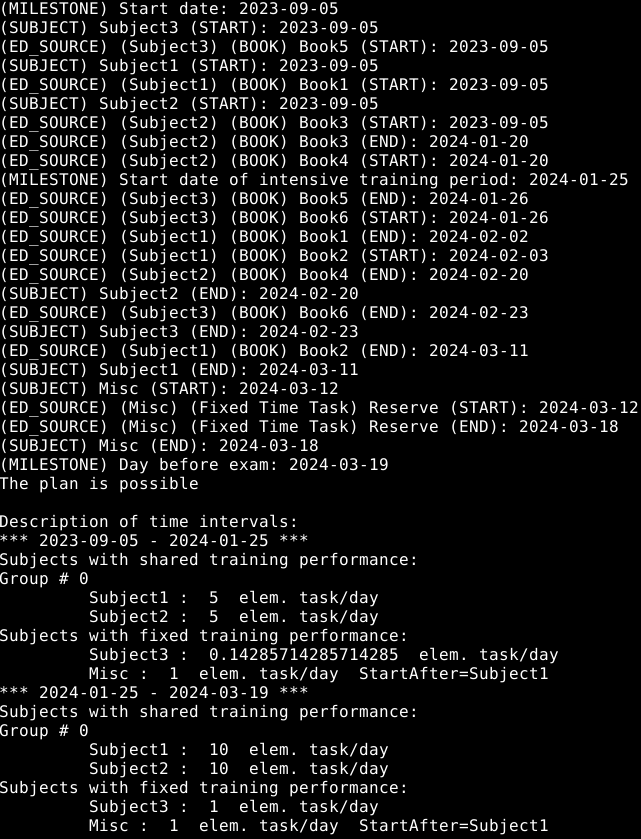
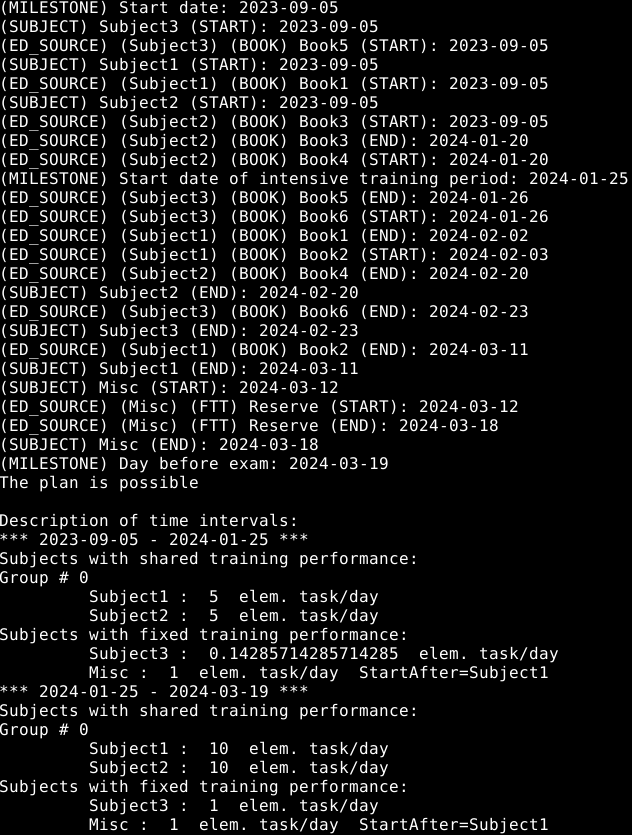
Fixed #8; fixed #11

Changed region(s): [[0.0, 0.0, 0.9921, 1.0], [0.8117, 0.4671, 0.9921, 0.5293]]

diff --git a/ImitPlanner.py b/ImitPlanner.py
@@ -175,7 +175,7 @@ class FixedTimeTask(AbstractEdSource):
 			raise Exception("Error! This ed. source has already been"
 				+ " completed!")
 	def getSourceName(self):
-		return "Fixed Time Task"
+		return "FTT" #issue #11
 	def getDescr(self):
 		return "("+self.getSourceName()+") " + self.getTitle()
 
@@ -267,7 +267,7 @@ class Subject(IDescriptable, IEventSource, IEventListener):
 	
 	def solveEx(self, nExSolved, verbose=False):
 
-		if self.__fLocked==False:
+		if self.__fLocked==False and nExSolved>0: #issue #8
 			self.__checkFirstUse(verbose) # issue #5
 			
 			rem=self.__edSourceList[self.__curEdSourceIndex].use(
